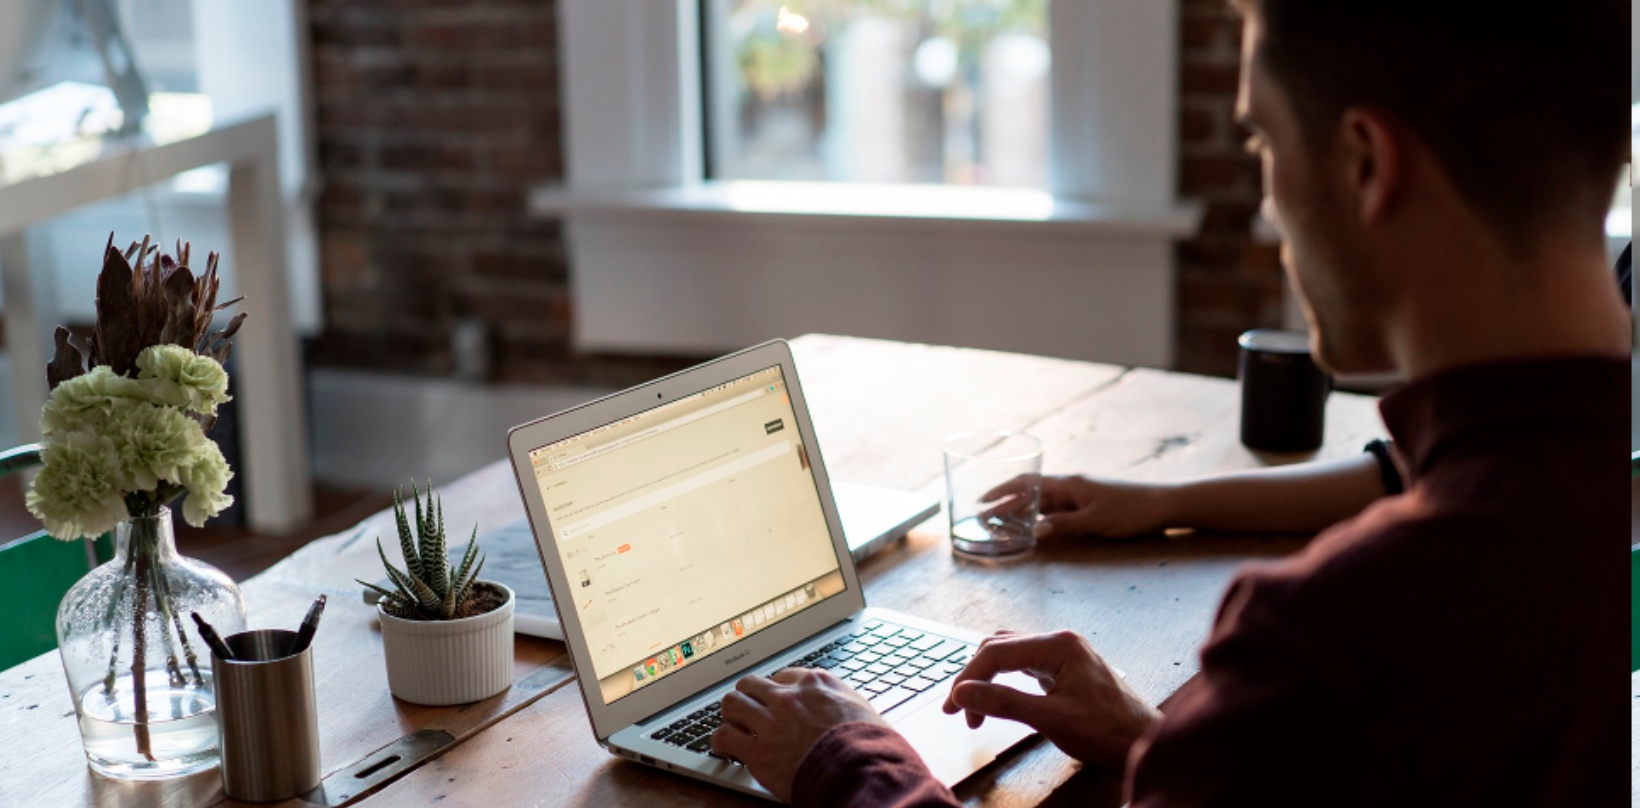
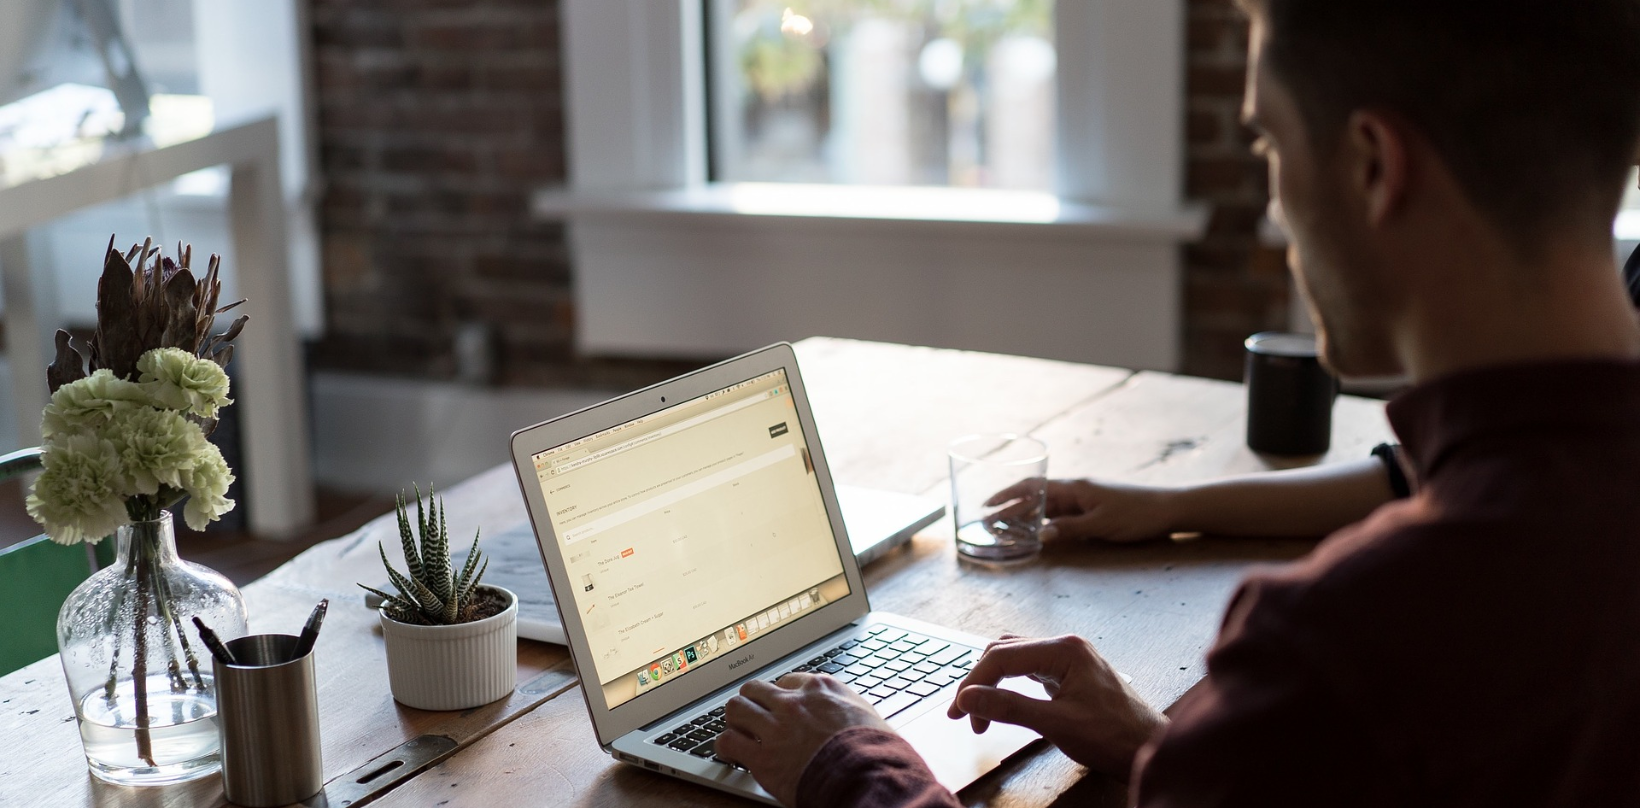
lab4: fix extend background

diff --git a/lab4/assets/styles/main.css b/lab4/assets/styles/main.css
@@ -342,13 +342,14 @@ a {
 	position: absolute;
 	width: 90%;
 	height: 700px;
-	background-color: #000;
+	background: #000;
 	top: 50px;
 	left: 5%;
 	content: '';
 	z-index: 1;
-	opacity: .29;
+	opacity: .35;
 	border-radius: 100%;
+	filter: blur(10px);
 }
 
 .extend__card {
